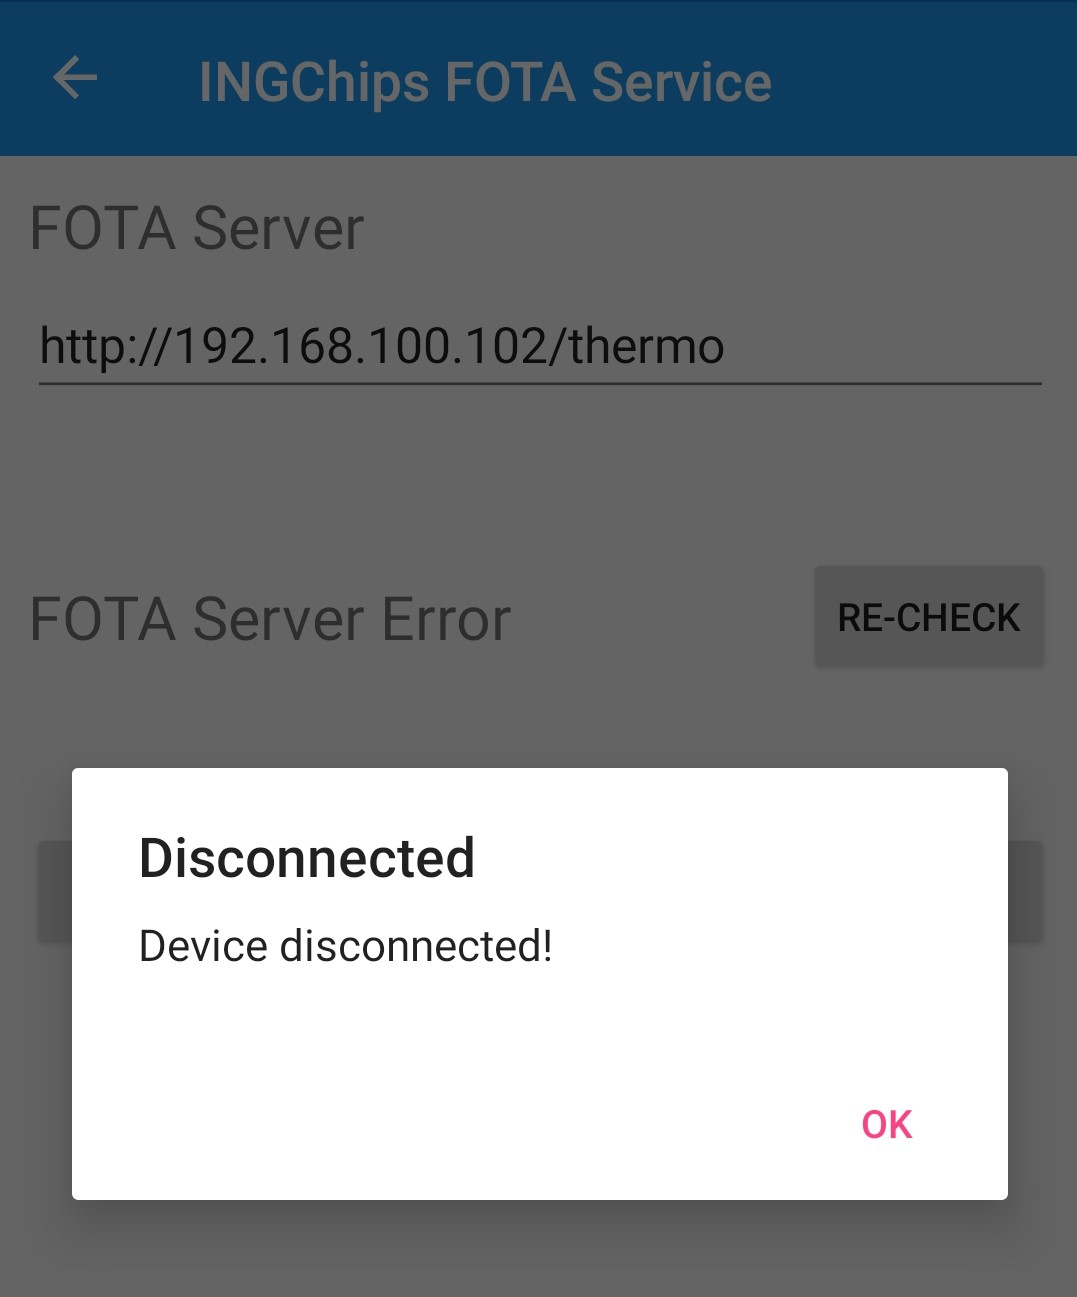
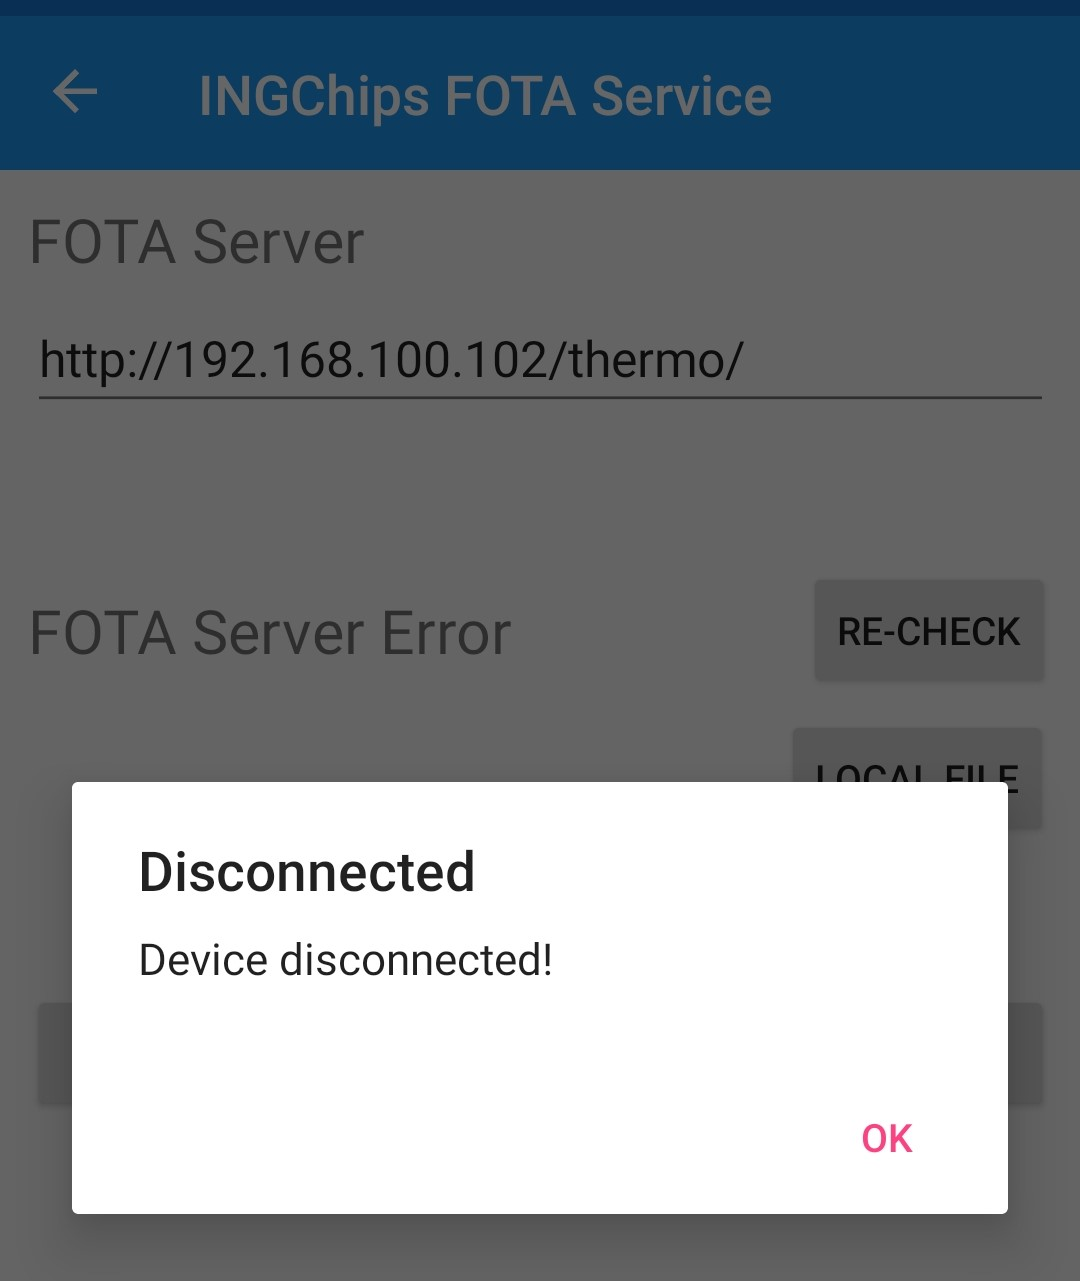
update

diff --git a/blog/fota_demo_zh/index.html b/blog/fota_demo_zh/index.html
@@ -297,6 +297,8 @@
   </li>
 </ol>
 
+<p>如果需要在手机 App 上使用本地模式，需要将几个升级包（v1.zip、v2.zip）事先复制到手机。</p>
+
 <h2 id="演示-1使用手机-app">演示 1：使用手机 App</h2>
 
 <p>用 ING BLE 连接到名为“ING Thermometer”的蓝牙设备，查看温度计显示为“Body”状态。</p>
@@ -307,10 +309,25 @@
   <li>
     <p>部分升级到“Toe”版本</p>
 
-    <p>进入 FOTA 服务，在升级服务 URL 里填入“http://192.168.100.102/toe”，点击“Re-check”按钮，出现版本升级提示信息。
- 点击“Update”按钮完成升级。由于此时 platform 版本一致，故升级过程中只升级了 App Bin，速度很快。</p>
+    <ul>
+      <li>
+        <p>在线模式</p>
 
-    <p><img src="../img/fota_toe_update_ready.jpg" alt="" /></p>
+        <p>进入 FOTA 服务，在升级服务 URL 里填入“http://192.168.100.102/toe”，点击“Re-check”按钮，出现版本升级提示信息。
+  点击 “Update” 按钮完成升级。由于此时 platform 版本一致，故升级过程中只升级了 App Bin，速度很快。</p>
+
+        <p><img src="../img/fota_toe_update_ready.jpg" alt="" /></p>
+      </li>
+      <li>
+        <p>本地模式</p>
+
+        <p>点击“Local File”按钮，然后选择 v2.zip，会出现与在线模式相同的版本升级提示信息。点击“Update”按钮完成升级。</p>
+
+        <p><img src="../img/fota_app_local_mode.png" alt="" /></p>
+
+        <p>后续步骤只演示在线模式，本地模式用法类似。</p>
+      </li>
+    </ul>
 
     <p>重新连接到“ING Thermometer”，查看温度计显示为“Toe”状态。</p>
 
